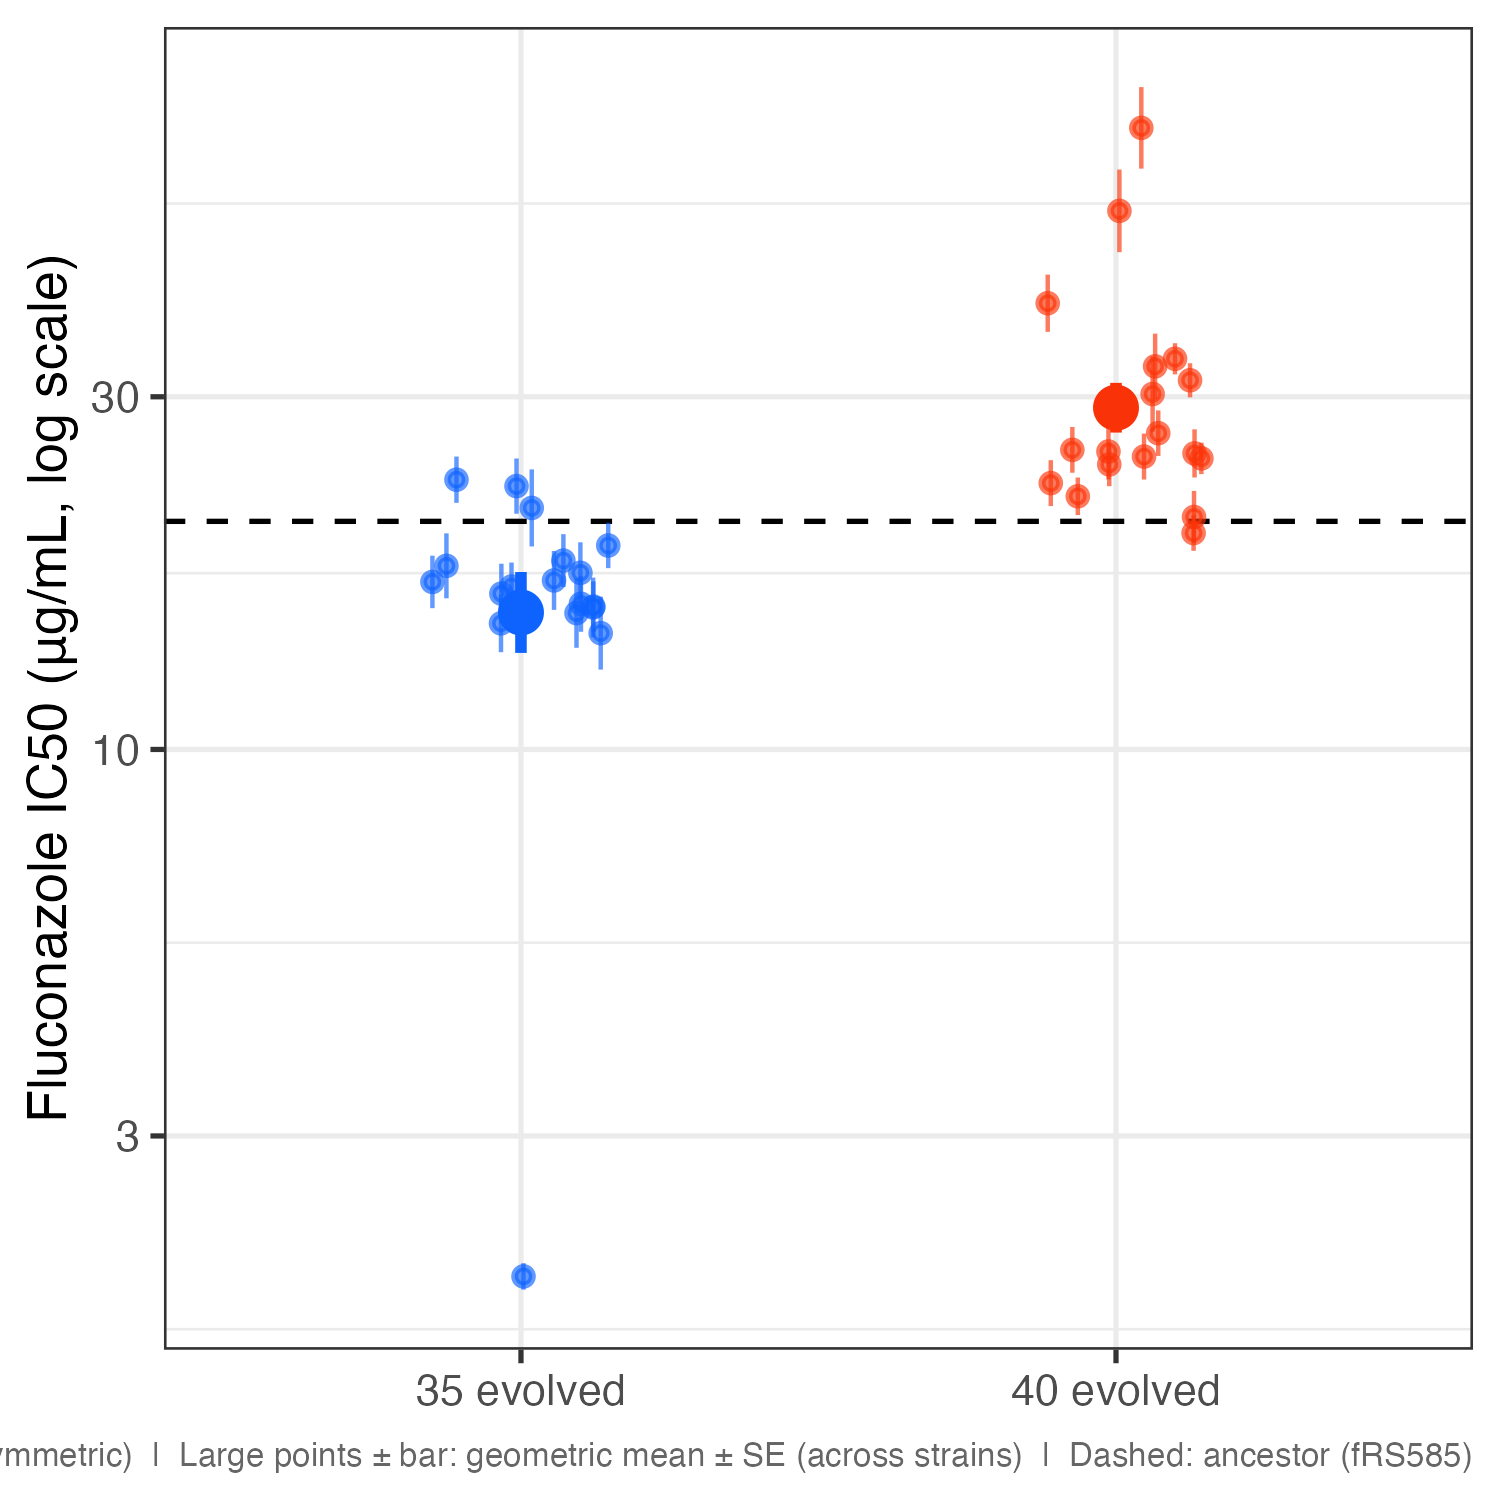
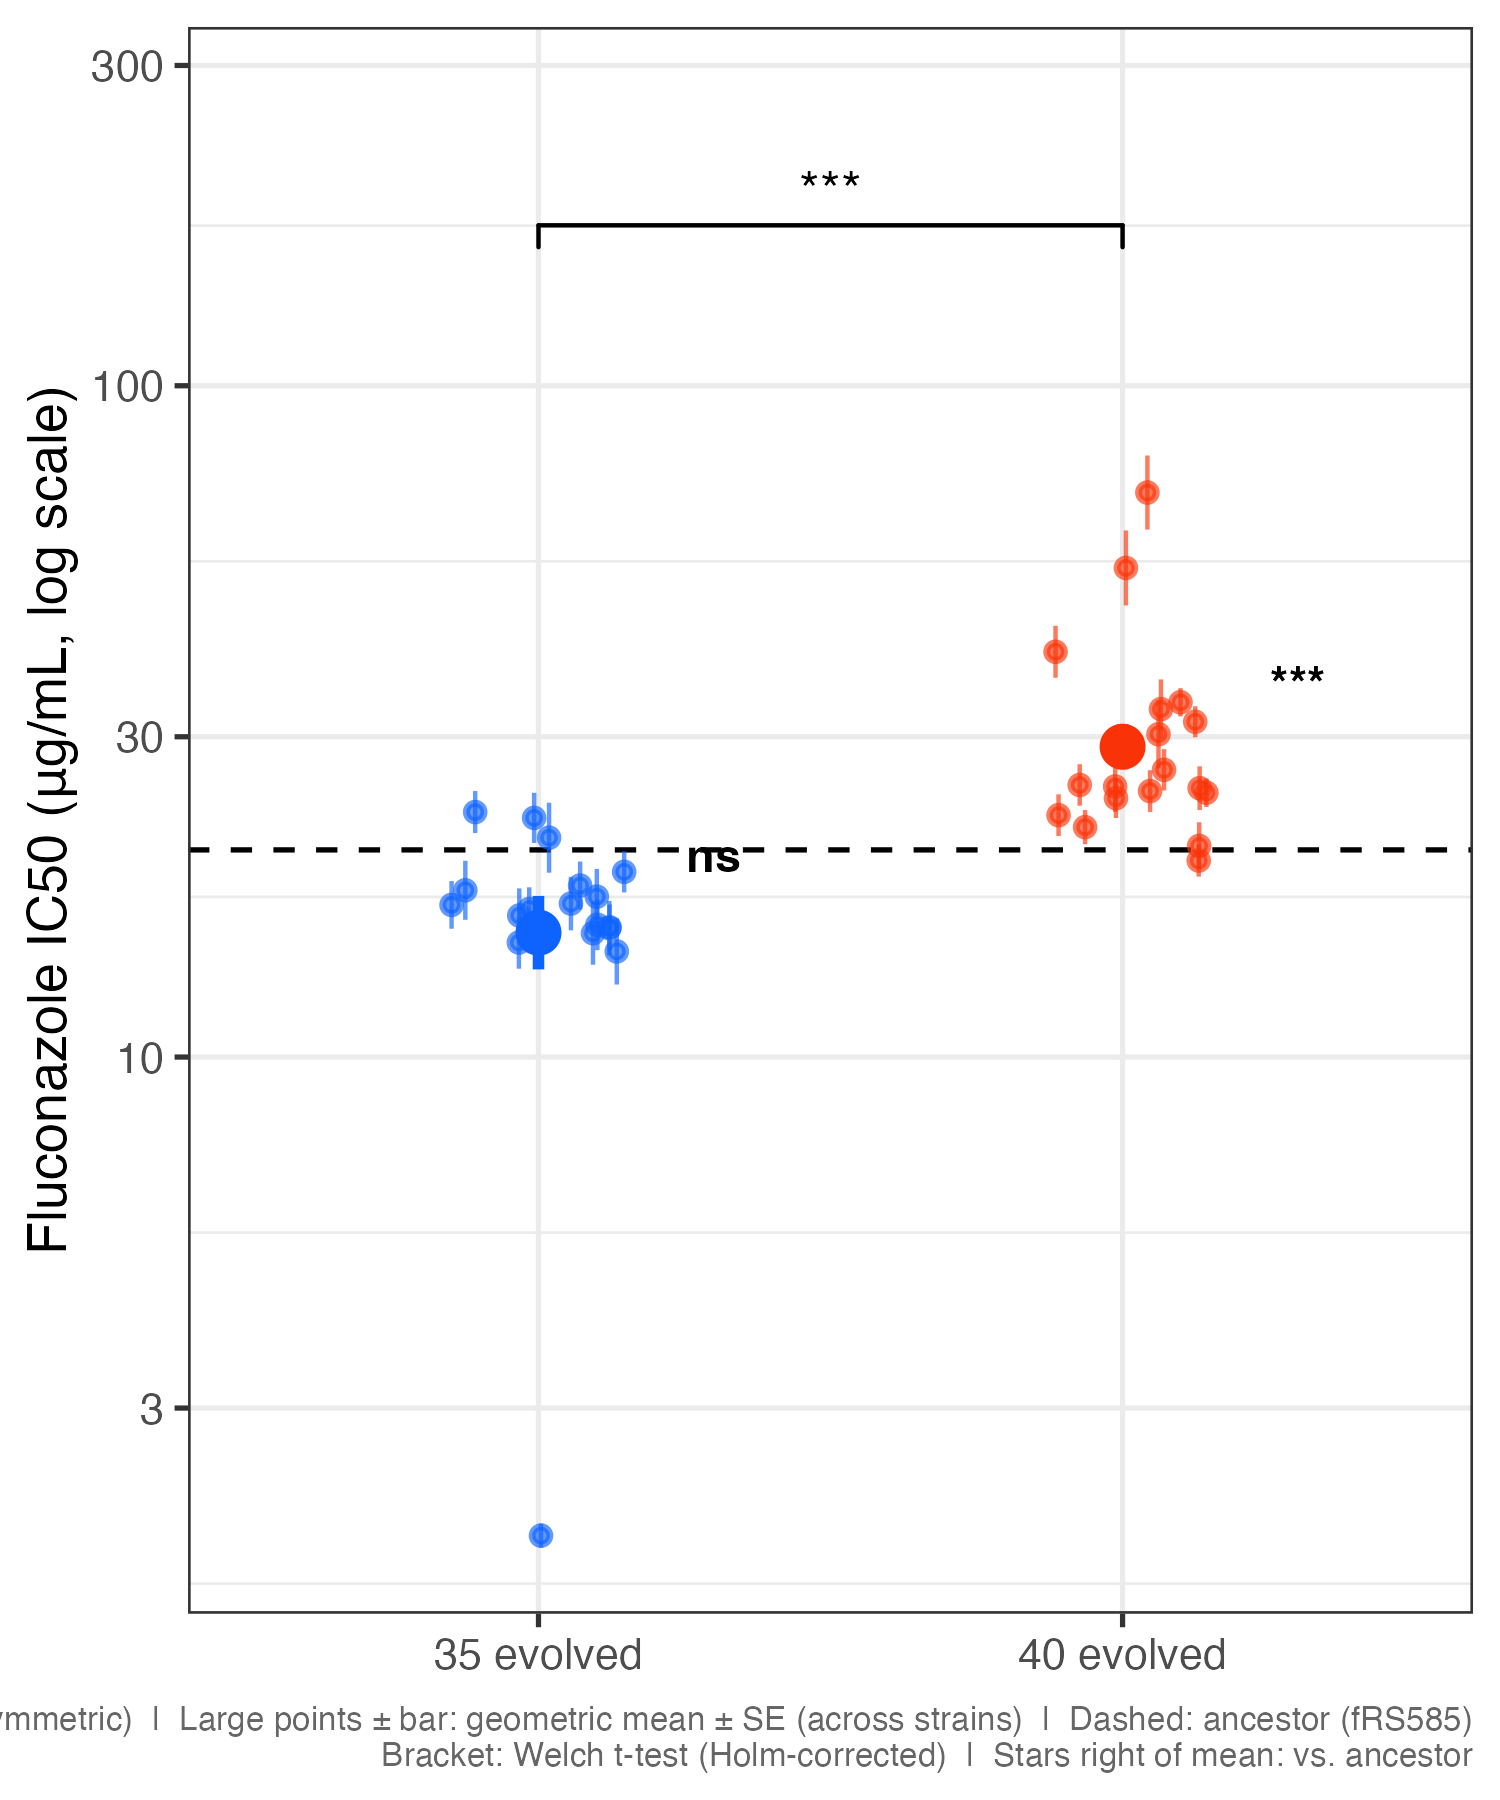
more changes to results markdown

diff --git a/cross-tolerance-interpretation.md b/cross-tolerance-interpretation.md
@@ -42,6 +42,8 @@ ancestral value but elevated Tmax and Th. Both groups shifted Th in opposite
 directions — 35-evolved strains have lower deactivation temperatures, 40-evolved
 strains have higher ones.
 
+![Thermal trait distributions per evolution history group. Small points ± bars: per-strain SSH estimate ± 1 bootstrap SE. Large points ± bars: group mean ± SE across strains. Dashed line: ancestor (fRS585). Brackets: Welch t-test; stars: vs. ancestor (one-sample t-test); all Holm-corrected.](figures/thermal-traits-dotplot-boot-19.png)
+
 ---
 
 ## 2. Between-group drug tolerance
@@ -61,6 +63,12 @@ all three drugs (Welch t-tests on log-IC50, Holm-corrected across drugs):
 
 The effect is largest for amphotericin (5-fold), moderate for fluconazole (1.9-fold),
 and smallest for caspofungin (1.4-fold).
+
+![Amphotericin B IC50 per strain by evolution history group. Small points ± bars: per-strain pooled IC50 ± 1 bootstrap SE (log-symmetric). Large points ± bars: geometric group mean ± SE. Dashed line: ancestor.](figures/amphotericin-ic50-dotplot-boot-19.png)
+
+![Fluconazole IC50 per strain by evolution history group.](figures/fluconazole-ic50-dotplot-boot-19.png)
+
+![Caspofungin IC50 per strain by evolution history group.](figures/caspofungin-ic50-dotplot-boot-19.png)
 
 ### 2b. Comparison to the ancestor (fRS585)
 
@@ -120,6 +128,12 @@ This relationship holds within groups, not just across them, providing direct
 evidence that individual strains with higher deactivation temperatures are also more
 drug tolerant — independent of their evolutionary background.
 
+![Within-group Deming regression of Th vs log(IC50) per drug. Both variables are group-mean centred within each evolution history before plotting and fitting, removing the between-group signal. Error bars: ±1 bootstrap SE on each axis. Black line: Deming fit (pooled across evolution histories per drug). Slope and 95% CI shown in each panel.](figures/th-ic50-deming-within-19.png)
+
+For reference, the pooled (uncentred) Deming regression is shown below. The steeper slopes reflect the additional between-group separation contributing to the apparent relationship.
+
+![Pooled Deming regression of Th vs log(IC50) per drug, without group-mean centring. Points coloured by evolution history. The separation of the two groups along both axes inflates the pooled slope relative to the within-group estimate.](figures/th-ic50-deming-19.png)
+
 ---
 
 ## 4. Within-group PCA (corroborating multivariate evidence)
@@ -148,6 +162,12 @@ In the centred biplot:
   finding that Th varies only ~0.3°C SD within groups — it does not drive any
   within-group PCA axis strongly, even though the Deming regression shows it is
   reliably associated with drug IC50.
+
+![Within-group PCA biplot. All 8 variables (3 log-IC50s + e, eh, Th, B80, Tmax) are group-mean centred within each evolution history before PCA. Solid arrows: drug IC50 loadings; dashed arrows: thermal trait loadings. Ellipses: 95% concentration regions per group. Between-group separation is removed; axes reflect within-group covariation only.](figures/PCA-biplot-within.png)
+
+For reference, the standard pooled biplot (without centring) is shown below. PC1 is dominated by the between-group shift.
+
+![Standard pooled PCA biplot (no centring). PC1 = 38.0%, PC2 = 26.3%. The group separation dominates the first axis, inflating apparent covariation between thermal and drug variables.](figures/PCA-biplot.png)
 
 ---
 